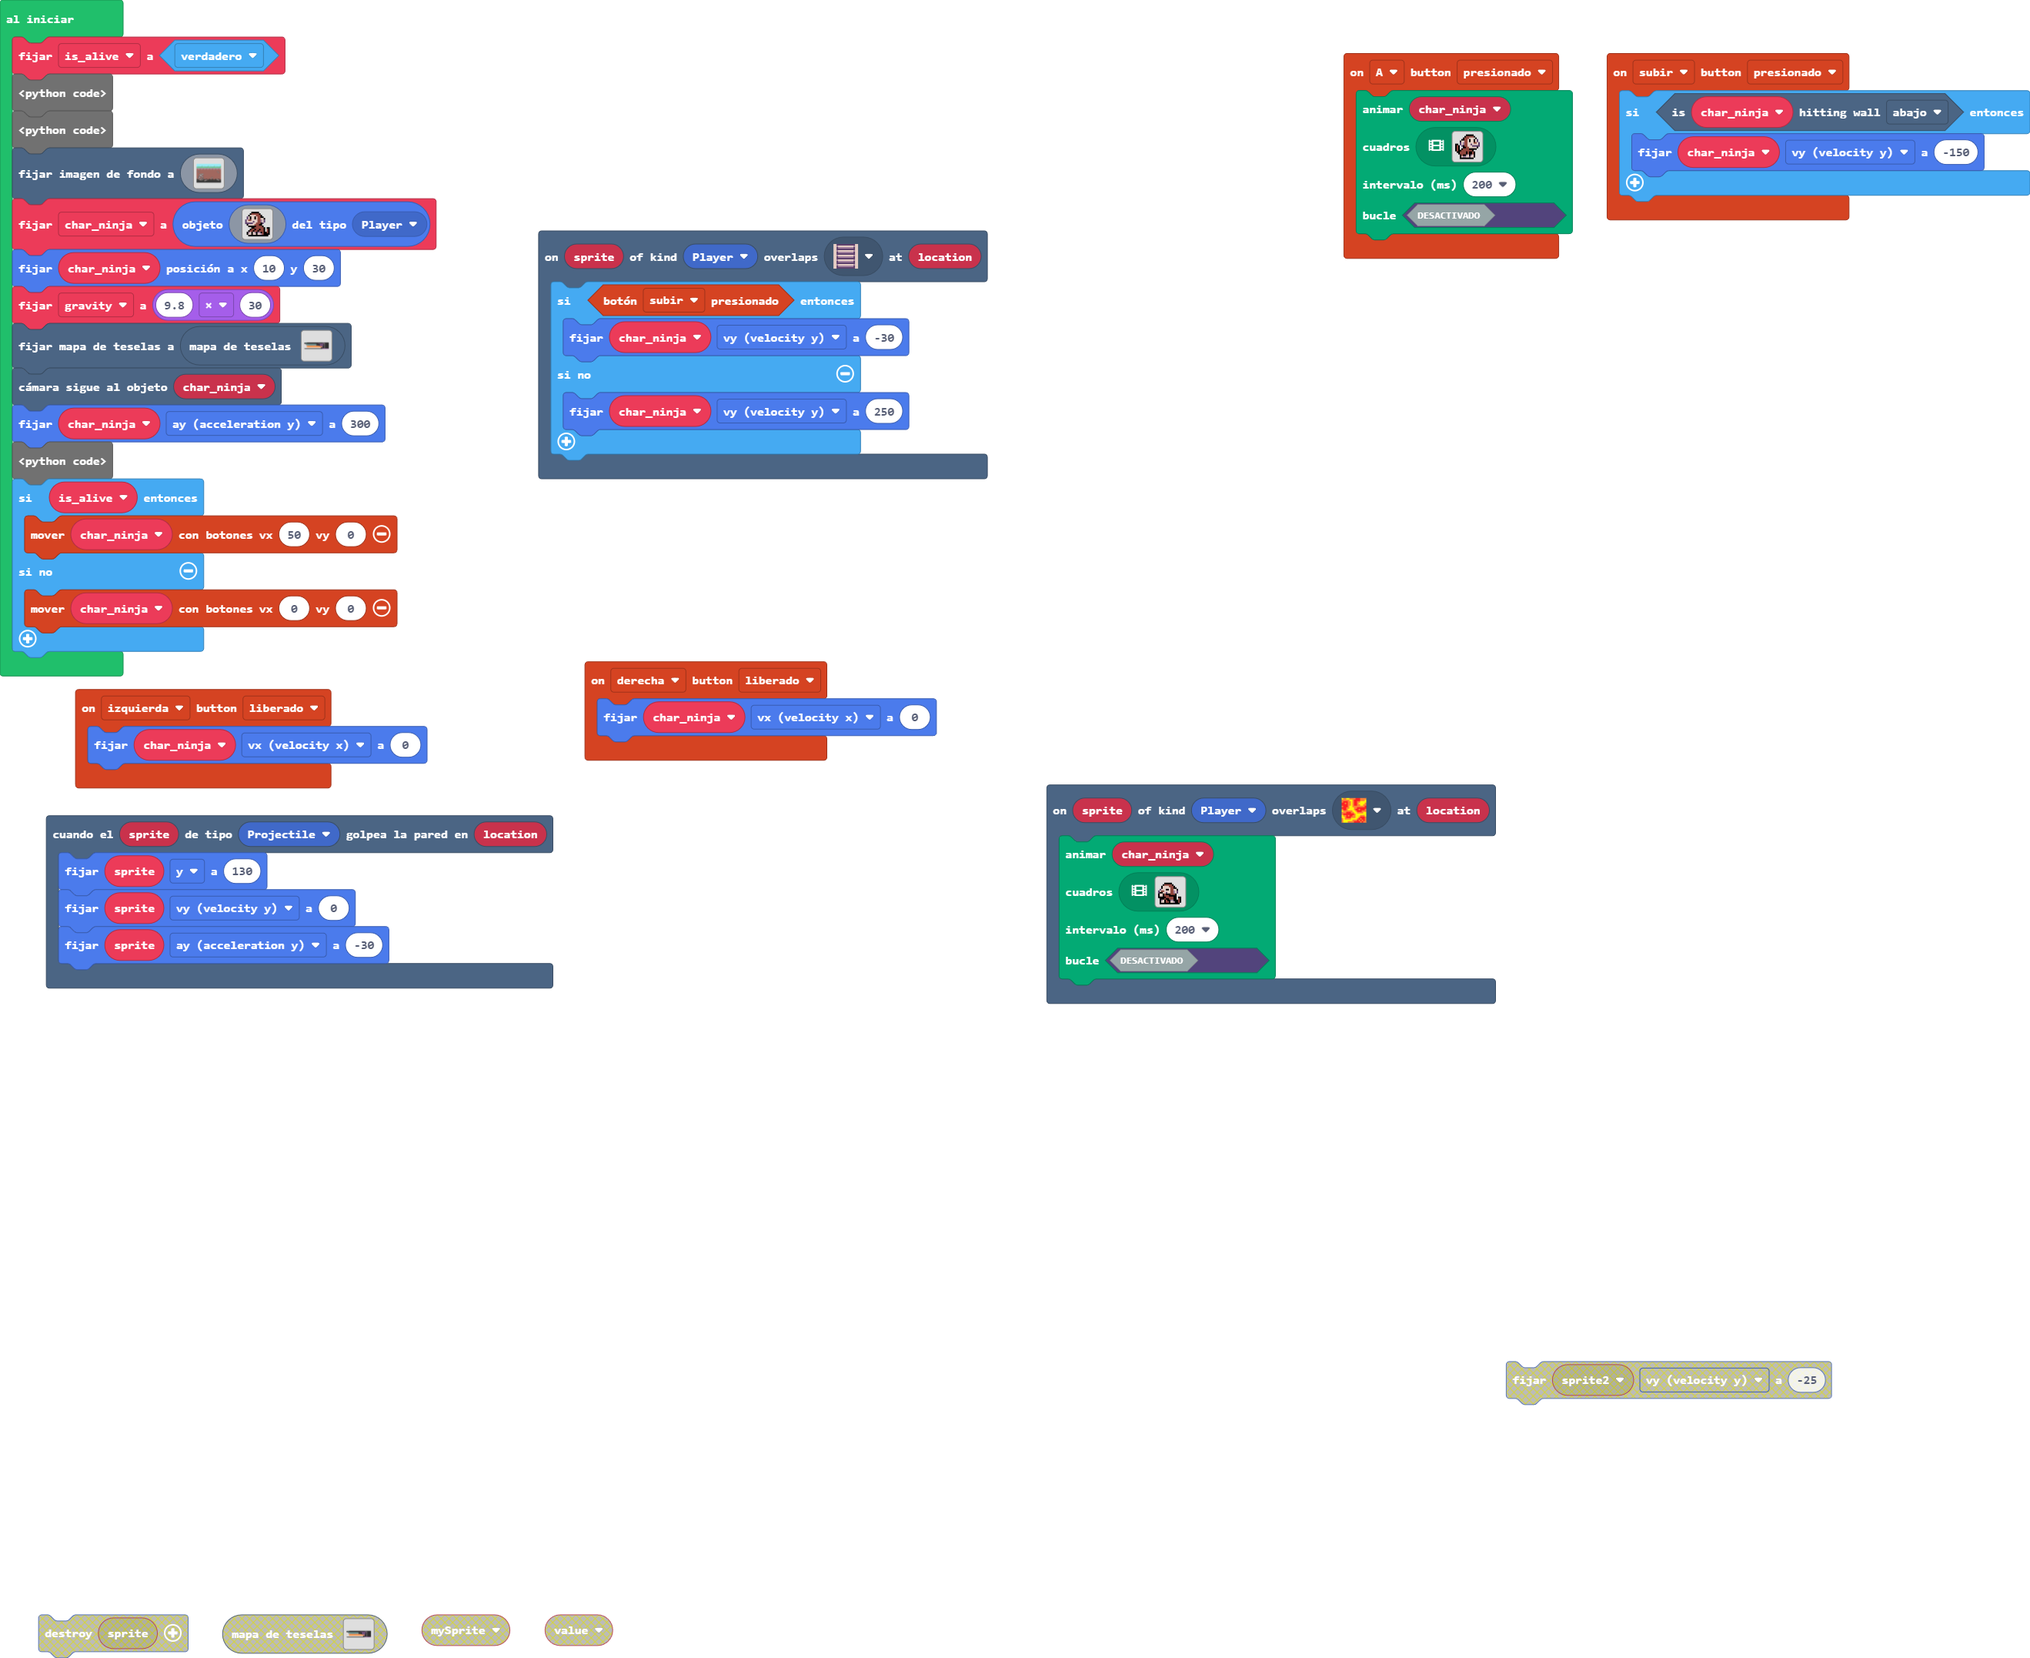
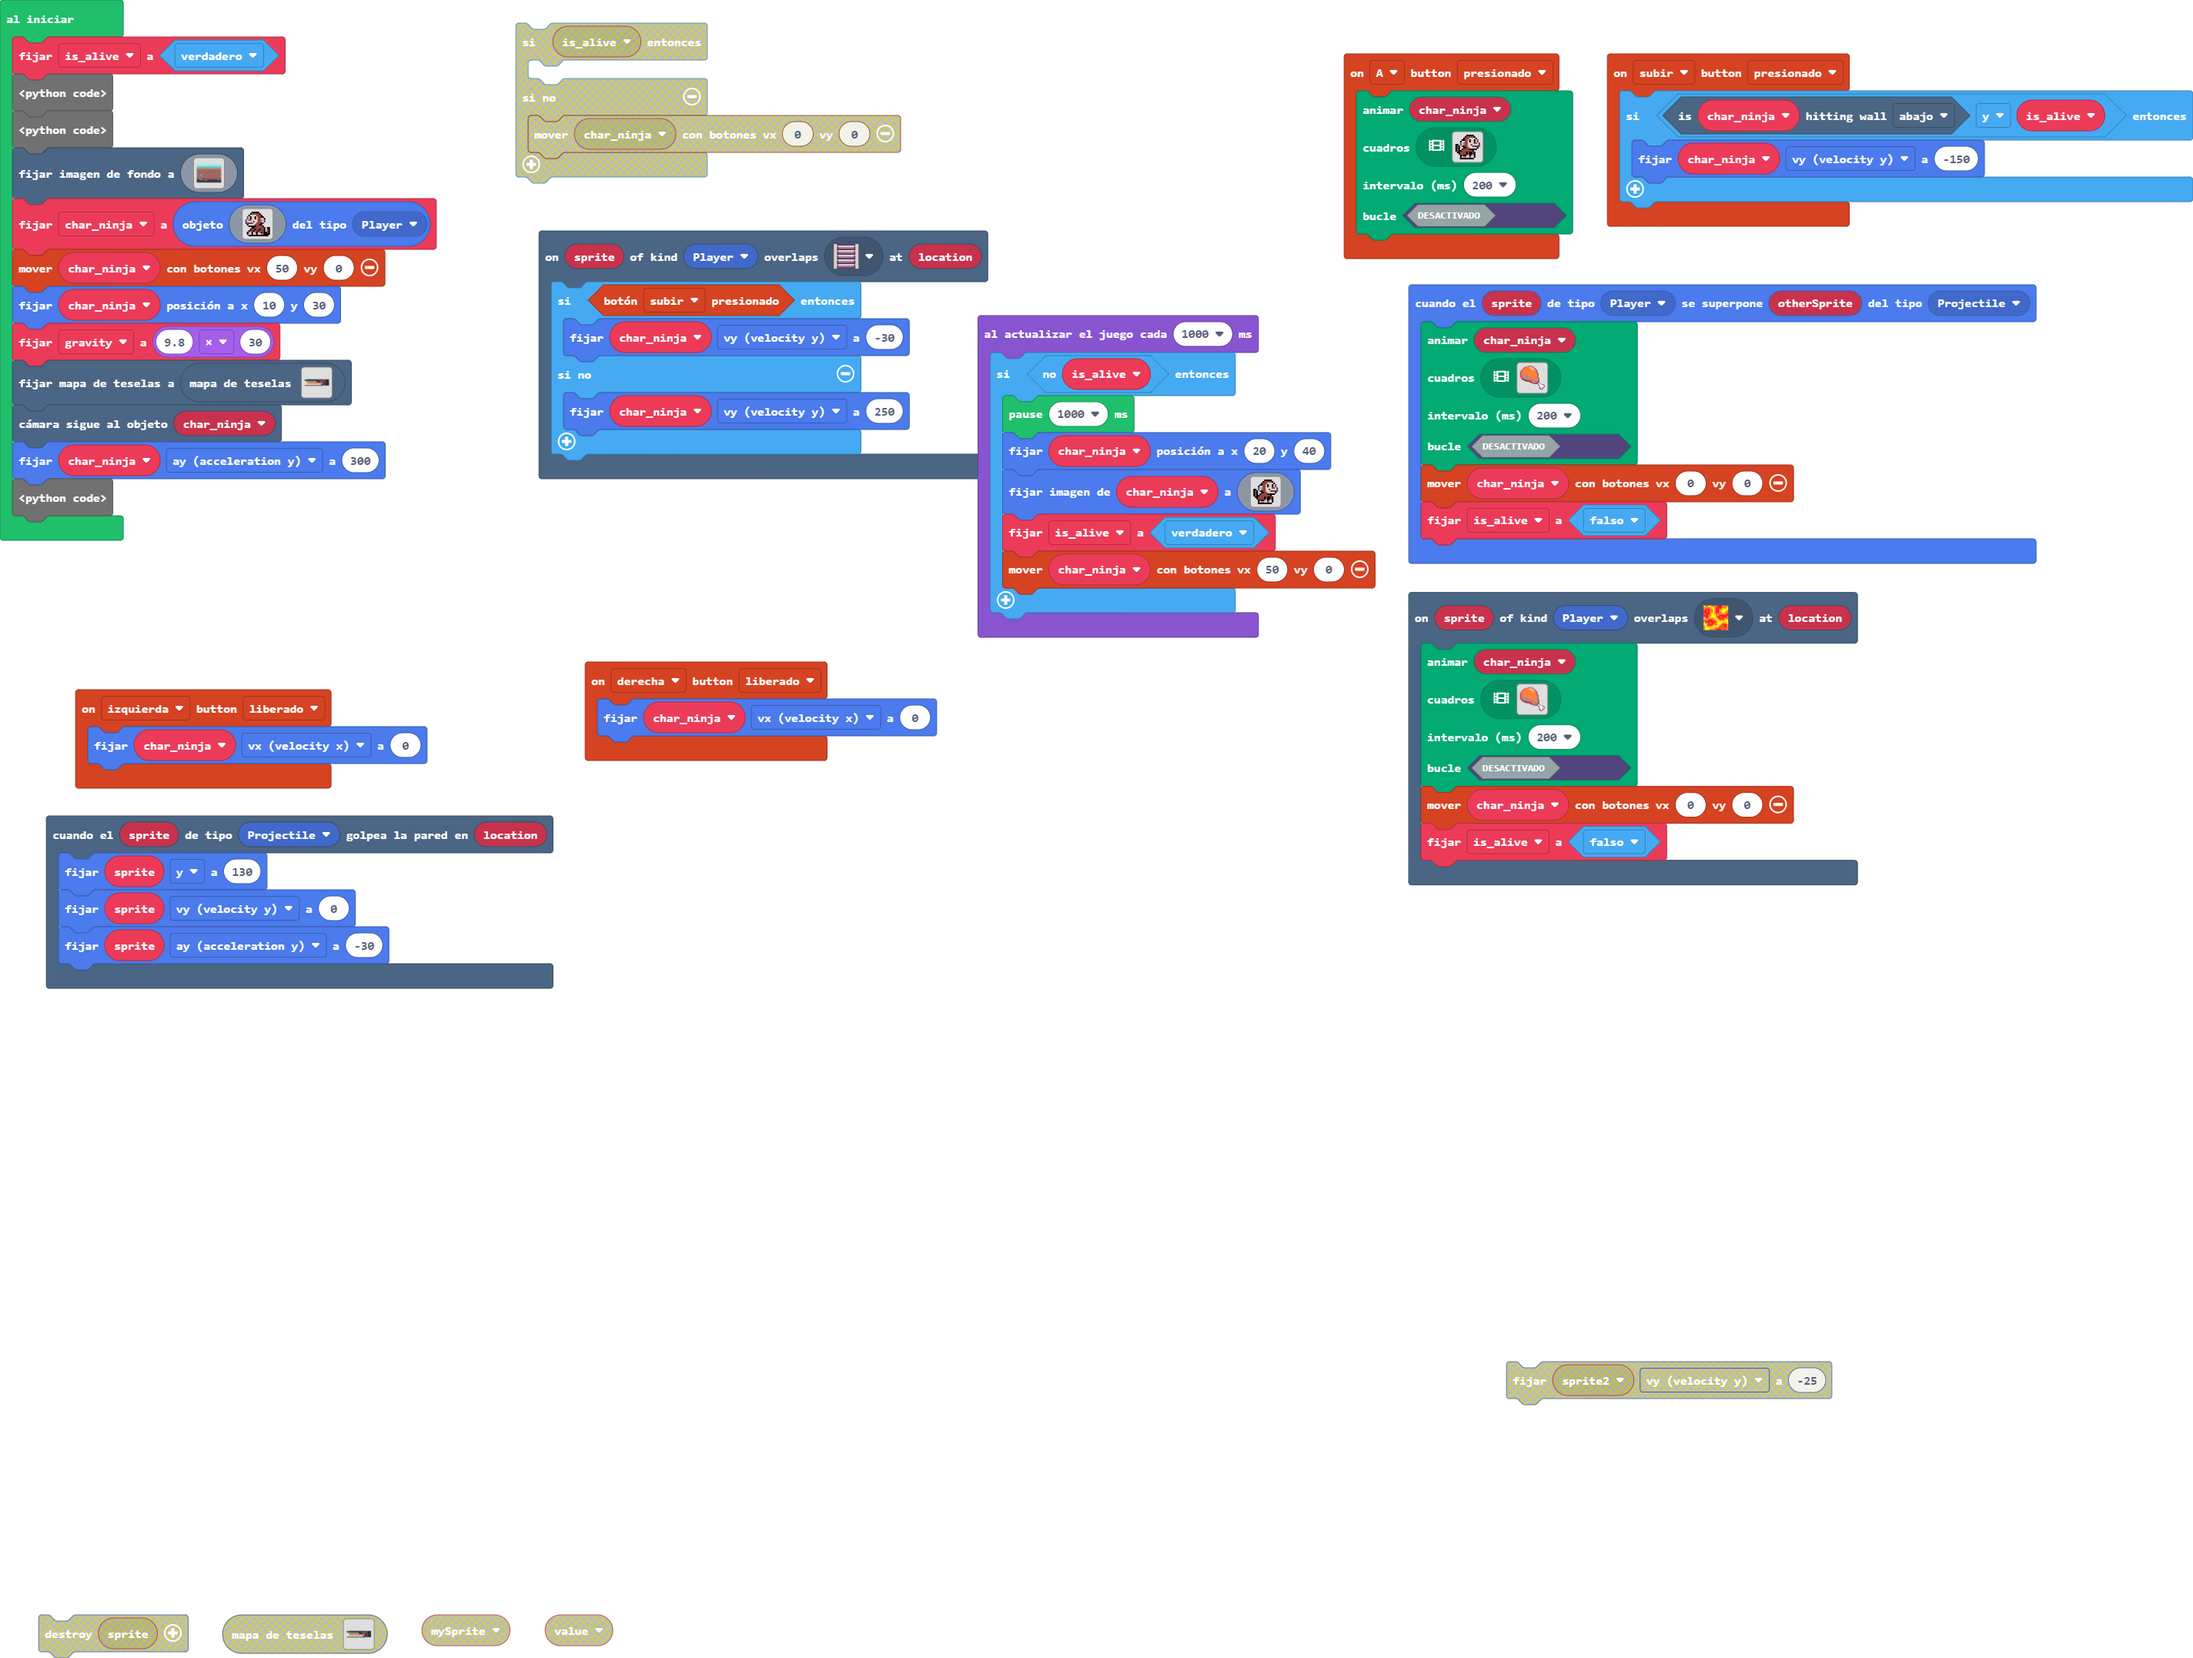
dead

diff --git a/main.ts b/main.ts
@@ -101,26 +101,87 @@ scene.onOverlapTile(SpriteKind.Player, assets.tile`lava1`, function (sprite, loc
     animation.runImageAnimation(
     char_ninja,
     [img`
-        . . . . . . . . . . . . . . . . 
-        . . . . . . . . . . . . . . . . 
-        . . . . f f f f f . . . . . . . 
-        . . . f e e e e e f . . . . . . 
-        . . f d d d d e e e f . . . . . 
-        . . f d d d d d e e f f . . . . 
-        . c d d d f f d e e d d f . . . 
-        c d e e d d d d e e b d c . . . 
-        c f f d d c d d e e b d c . . . 
-        f d d f e f f f e e e f . . . . 
-        f d d f e e e f f f f f . . . . 
-        f f f f f e e e e e f f . f f . 
-        . f f f e f f e e e f f . e f . 
-        . f b d f e f f b b f f f e f . 
-        . f d d f e e f d d b f f e f . 
-        . f f f f f f f f f f f f f . . 
+        ..........bbbbbb................
+        .......bbb444444bb..............
+        .....2244444ddd444b.............
+        ....244444444dddd44e............
+        ...244444444444ddd4be...........
+        ..244444444444444d44be..........
+        .2b444444444444444d4be..........
+        .2b44444444444444444bbe.........
+        2bbb4444444444444444bbe.........
+        2bbb4444444444444444bbe.........
+        2bb4b4444444444444444bbe........
+        2bb4444444444444444444be........
+        2bb44444444444444444444e........
+        2bbb444bbb4444444444444e........
+        22bbb444bb4bb444444444be........
+        .2bbbbb44bbbb44444444bbe........
+        .22bbbbbbbb44bbb444444bbe.......
+        ..eeebbbbbbb44bbb444444be.......
+        ...eeeeebbbbbbbb44b4444be.......
+        .....eeeeee222bb44bbb4bbe.......
+        .......eeeee222bb44bbbbee.......
+        ............e222bbbbbbbec.......
+        ..............ee2bbbbeebdb......
+        .................eeeeecdddb.....
+        .......................cd11bbbb.
+        ........................cd111dbb
+        .........................b11111c
+        .........................c11dd1c
+        .........................cd1dbc.
+        .........................cb11c..
+        ..........................ccc...
+        ................................
         `],
     200,
     false
     )
+    controller.moveSprite(char_ninja, 0, 0)
+    is_alive = false
+})
+sprites.onOverlap(SpriteKind.Player, SpriteKind.Projectile, function (sprite, otherSprite) {
+    animation.runImageAnimation(
+    char_ninja,
+    [img`
+        ..........bbbbbb................
+        .......bbb444444bb..............
+        .....2244444ddd444b.............
+        ....244444444dddd44e............
+        ...244444444444ddd4be...........
+        ..244444444444444d44be..........
+        .2b444444444444444d4be..........
+        .2b44444444444444444bbe.........
+        2bbb4444444444444444bbe.........
+        2bbb4444444444444444bbe.........
+        2bb4b4444444444444444bbe........
+        2bb4444444444444444444be........
+        2bb44444444444444444444e........
+        2bbb444bbb4444444444444e........
+        22bbb444bb4bb444444444be........
+        .2bbbbb44bbbb44444444bbe........
+        .22bbbbbbbb44bbb444444bbe.......
+        ..eeebbbbbbb44bbb444444be.......
+        ...eeeeebbbbbbbb44b4444be.......
+        .....eeeeee222bb44bbb4bbe.......
+        .......eeeee222bb44bbbbee.......
+        ............e222bbbbbbbec.......
+        ..............ee2bbbbeebdb......
+        .................eeeeecdddb.....
+        .......................cd11bbbb.
+        ........................cd111dbb
+        .........................b11111c
+        .........................c11dd1c
+        .........................cd1dbc.
+        .........................cb11c..
+        ..........................ccc...
+        ................................
+        `],
+    200,
+    false
+    )
+    controller.moveSprite(char_ninja, 0, 0)
+    is_alive = false
 })
 scene.onOverlapTile(SpriteKind.Player, assets.tile`ladder`, function (sprite, location) {
     if (controller.up.isPressed()) {
@@ -130,7 +191,7 @@ scene.onOverlapTile(SpriteKind.Player, assets.tile`ladder`, function (sprite, lo
     }
 })
 controller.up.onEvent(ControllerButtonEvent.Pressed, function () {
-    if (char_ninja.isHittingTile(CollisionDirection.Bottom)) {
+    if (char_ninja.isHittingTile(CollisionDirection.Bottom) && is_alive) {
         char_ninja.vy = -150
     }
 })
@@ -140,7 +201,8 @@ scene.onHitWall(SpriteKind.Projectile, function (sprite, location) {
     sprite.ay = -30
 })
 let char_ninja: Sprite = null
-let is_alive = true
+let is_alive = false
+is_alive = true
 function create_lava(seed: any) {
     for (let lava of tiles.getTilesByType(assets.tile`lava_enemy`)) {
         throw_lava(lava)
@@ -309,14 +371,36 @@ char_ninja = sprites.create(img`
     . f d d f d d f d d b e f f f f 
     . . f f f f f f f f f f f f f . 
     `, SpriteKind.Player)
+controller.moveSprite(char_ninja, 50, 0)
 char_ninja.setPosition(10, 30)
 let gravity = 9.8 * 30
 tiles.setCurrentTilemap(tilemap`nivel1`)
 scene.cameraFollowSprite(char_ninja)
 char_ninja.ay = 300
 create_lava(-20)
-if (is_alive) {
-    controller.moveSprite(char_ninja, 50, 0)
-} else {
-    controller.moveSprite(char_ninja, 0, 0)
-}
+game.onUpdateInterval(1000, function () {
+    if (!(is_alive)) {
+        pause(1000)
+        char_ninja.setPosition(20, 40)
+        char_ninja.setImage(img`
+            . . . . . . . f f f f f . . . . 
+            . . . . . . f e e e e e f . . . 
+            . . . . . f e e e d d d d f . . 
+            . . . . f f e e d f d d f d c . 
+            . . . f d d e e d f d d f d c . 
+            . . . c d b e e d d d d e e d c 
+            f f . c d b e e d d c d d d d c 
+            f e f . c f e e d d d c c c c c 
+            f e f . . f f e e d d d d d f . 
+            f e f . f e e e e f f f f f . . 
+            f e f f e e e e e e e f . . . . 
+            . f f e e e e f e f f e f . . . 
+            . . f e e e e f e f f e f . . . 
+            . . . f e f f b d f b d f . . . 
+            . . . f d b b d d c d d f . . . 
+            . . . f f f f f f f f f . . . . 
+            `)
+        is_alive = true
+        controller.moveSprite(char_ninja, 50, 0)
+    }
+})

diff --git a/main.py b/main.py
@@ -6,14 +6,6 @@ def on_left_released():
     char_ninja.vx = 0
 controller.left.on_event(ControllerButtonEvent.RELEASED, on_left_released)
 
-def on_right_pressed():
-    char_ninja.vx = 50
-controller.right.on_event(ControllerButtonEvent.PRESSED, on_right_pressed)
-
-def on_left_pressed():
-    char_ninja.vx = -50
-controller.left.on_event(ControllerButtonEvent.PRESSED, on_left_pressed)
-
 def on_a_pressed():
     animation.run_image_animation(char_ninja,
         [img("""
@@ -138,19 +130,31 @@ scene.on_overlap_tile(SpriteKind.player,
     """),
     on_overlap_tile)
 
+def on_overlap_tile2(sprite2, location2):
+    if controller.up.is_pressed():
+        char_ninja.vy = -30
+    else:
+        char_ninja.vy = 250
+scene.on_overlap_tile(SpriteKind.player,
+    assets.tile("""
+        ladder
+    """),
+    on_overlap_tile2)
+
 def on_up_pressed():
-    if char_ninja.is_hitting_tile(CollisionDirection.BOTTOM):
+    if char_ninja.is_hitting_tile(CollisionDirection.BOTTOM) and is_alive:
         char_ninja.vy = -150
 controller.up.on_event(ControllerButtonEvent.PRESSED, on_up_pressed)
 
-def on_hit_wall(sprite2, location2):
-    sprite2.vy += 0
-    sprite2.y = 130
-    sprite2.vy += -30
-    char_ninja.vy += -30
+def on_hit_wall(sprite3, location3):
+    sprite3.y = 130
+    sprite3.vy = 0
+    sprite3.ay = -30
 scene.on_hit_wall(SpriteKind.projectile, on_hit_wall)
 
 char_ninja: Sprite = None
+is_alive = False
+is_alive = True
 def create_lava(seed: any):
     for lava in tiles.get_tiles_by_type(assets.tile("""
         lava_enemy
@@ -320,6 +324,7 @@ char_ninja = sprites.create(img("""
             . . f f f f f f f f f f f f f .
     """),
     SpriteKind.player)
+controller.move_sprite(char_ninja, 50, 0)
 char_ninja.set_position(10, 30)
 gravity = 9.8 * 30
 tiles.set_current_tilemap(tilemap("""
